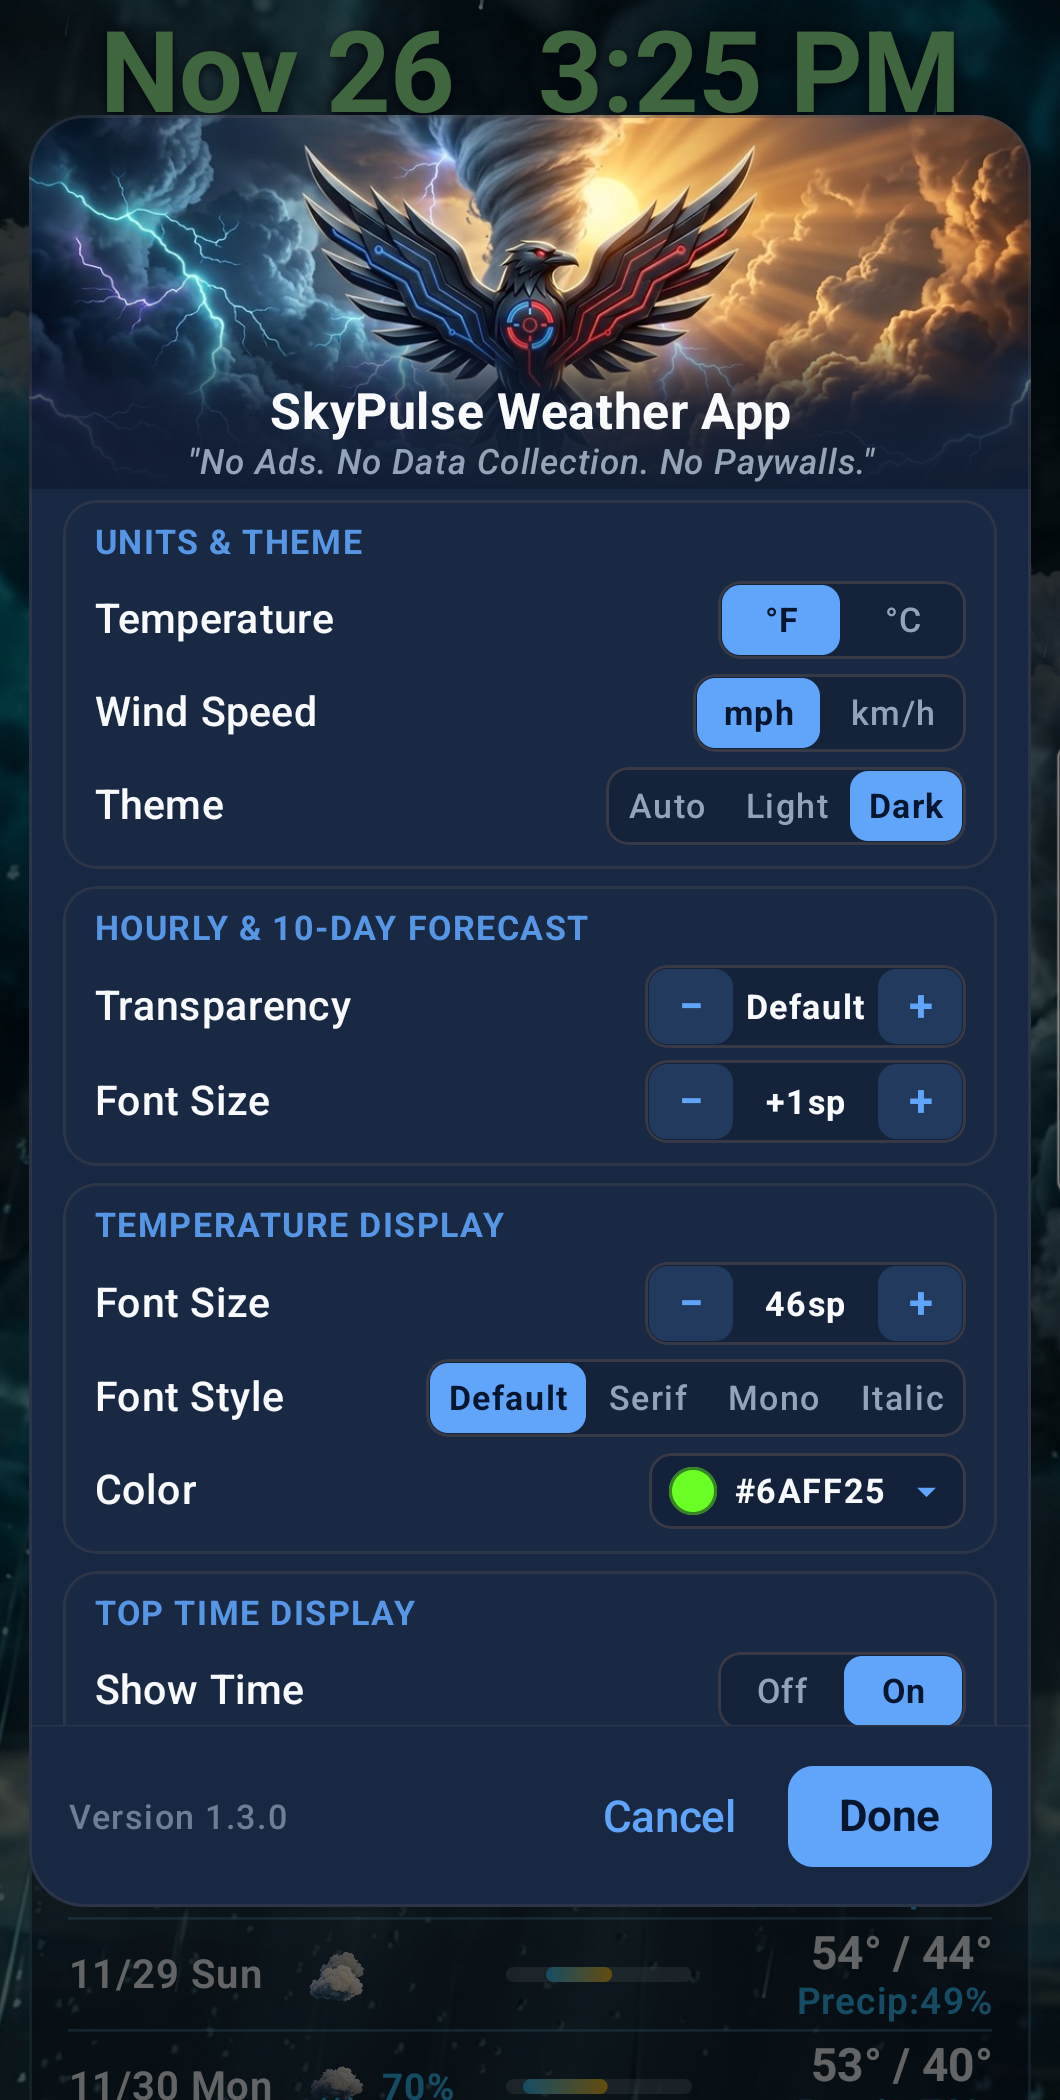
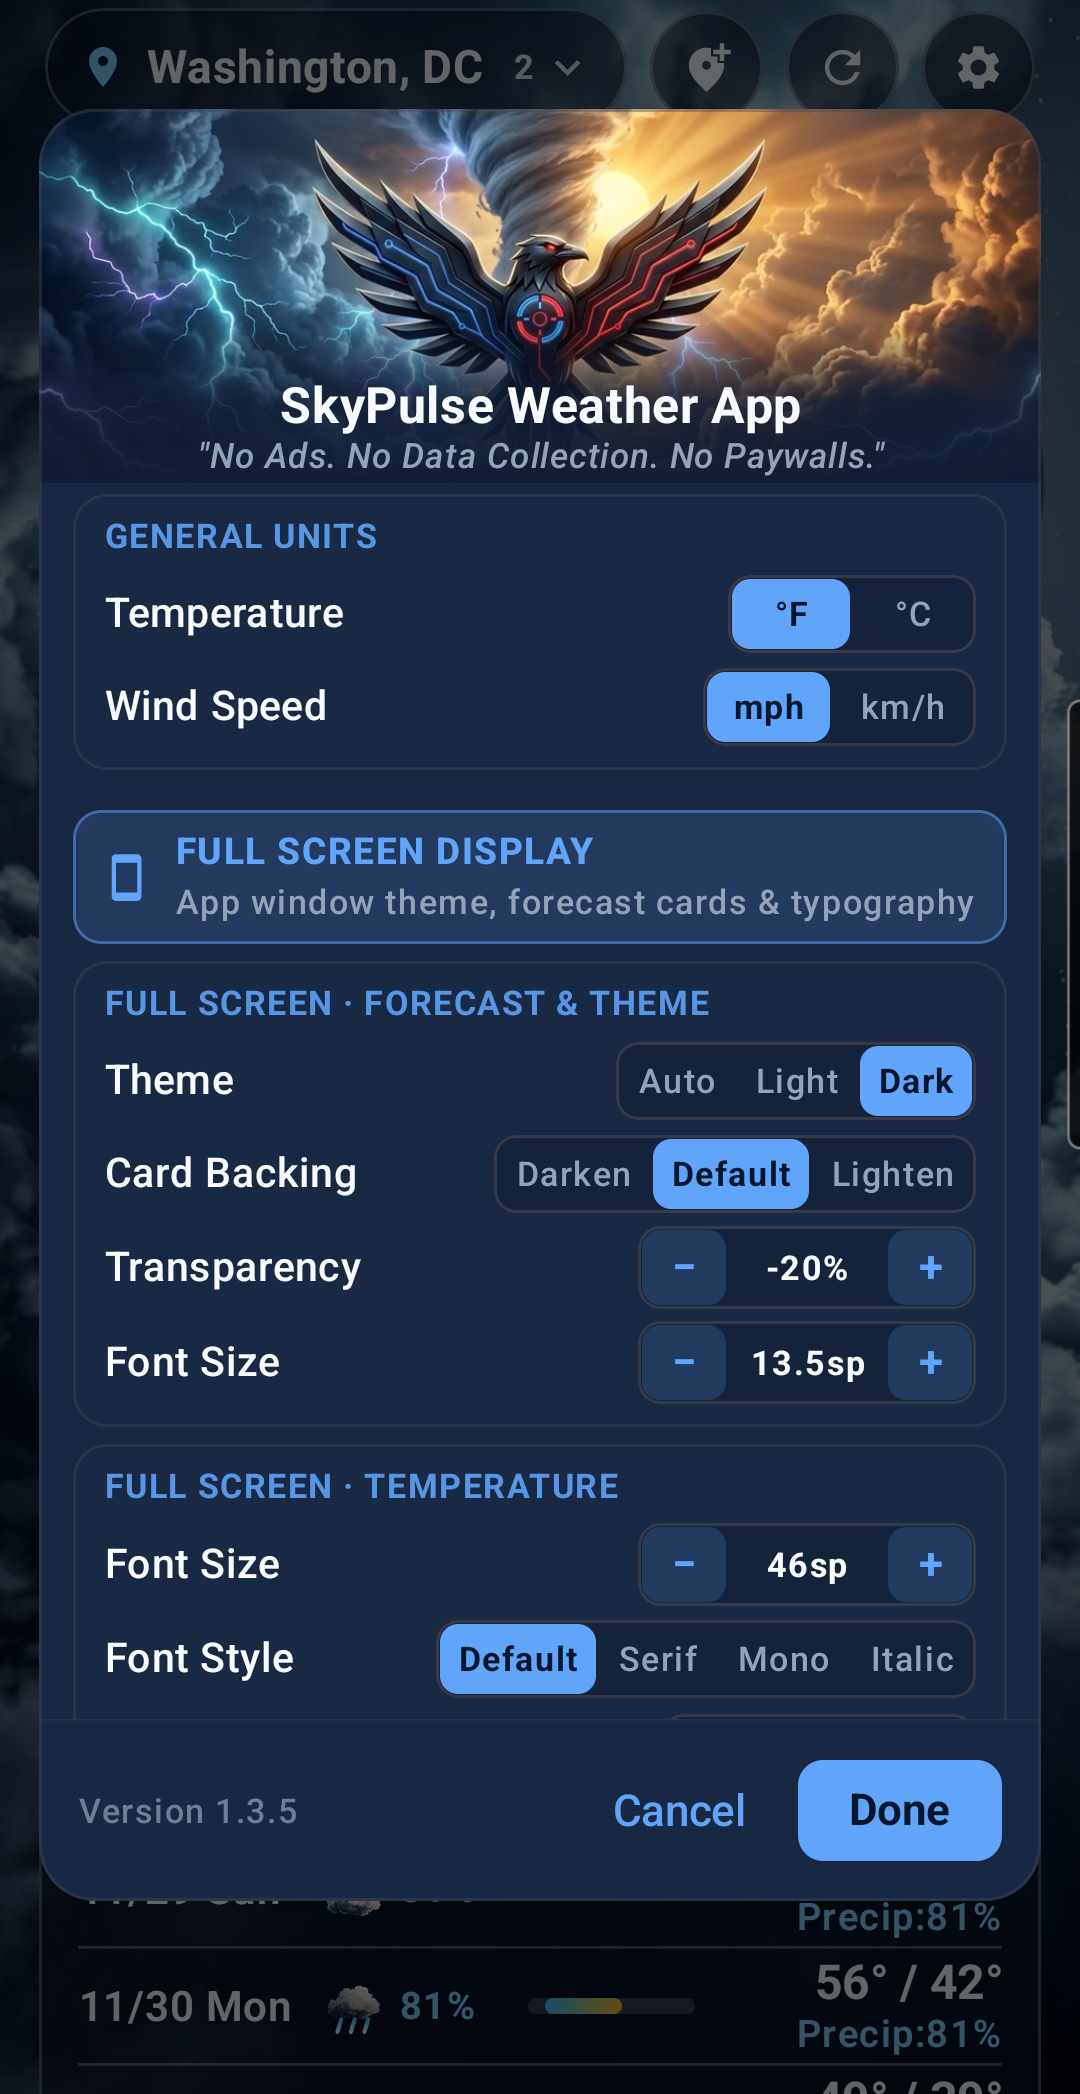
Docs & sanitization update for v1.3.5: refresh showcase images, guides, and neutral Washington DC seed defaults

diff --git a/app/src/main/java/com/crowinnovations/skypulseweather/data/repository/WeatherRepository.kt b/app/src/main/java/com/crowinnovations/skypulseweather/data/repository/WeatherRepository.kt
@@ -93,11 +93,11 @@ class WeatherRepository @Inject constructor(
             if (existing.isEmpty()) {
                 val id = weatherDao.insertLocation(
                     SavedLocationEntity(
-                        name = "Baltimore, MD",
-                        subtitle = "US ZIP 21201 · Maryland",
-                        latitude = 39.2946,
-                        longitude = -76.6252,
-                        zipCode = "21201",
+                        name = "Washington, DC",
+                        subtitle = "US ZIP 20001 · District of Columbia",
+                        latitude = 38.9072,
+                        longitude = -77.0369,
+                        zipCode = "20001",
                         countryCode = "US",
                         isGps = false,
                         sortOrder = 0
@@ -121,7 +121,7 @@ class WeatherRepository @Inject constructor(
             val results = mutableListOf<LocationSearchCandidate>()
             var lastError: Throwable? = null
 
-            // 1. Check if input is a 5-digit US ZIP code (e.g. 21201 or 90210-1234)
+            // 1. Check if input is a 5-digit US ZIP code (e.g. 20001 or 90210-1234)
             if (US_ZIP_REGEX.matches(query)) {
                 val zip5 = query.take(5)
                 runCatching {

diff --git a/app/src/test/java/com/crowinnovations/skypulseweather/WeatherDomainTest.kt b/app/src/test/java/com/crowinnovations/skypulseweather/WeatherDomainTest.kt
@@ -163,13 +163,13 @@ class WeatherDomainTest {
     @Test
     fun inputSecurityValidatorEnforcesStrictAllowlistAndSsrfProtection() {
         // Valid ZIPs and Unicode cities pass cleanly
-        assertEquals("21201", InputSecurityValidator.validateLocationSearchQuery("  21201\u200B "))
+        assertEquals("20001", InputSecurityValidator.validateLocationSearchQuery("  20001\u200B "))
         assertEquals("St. John's, NL", InputSecurityValidator.validateLocationSearchQuery("St. John's, NL"))
         assertEquals("München", InputSecurityValidator.validateLocationSearchQuery("München"))
 
         // Injection, HTML, path traversal, and control payloads rejected
         assertNull(InputSecurityValidator.validateLocationSearchQuery("<script>alert(1)</script>"))
-        assertNull(InputSecurityValidator.validateLocationSearchQuery("21201; DROP TABLE saved_locations;--"))
+        assertNull(InputSecurityValidator.validateLocationSearchQuery("20001; DROP TABLE saved_locations;--"))
         assertNull(InputSecurityValidator.validateLocationSearchQuery("../../etc/passwd"))
         assertNull(InputSecurityValidator.validateLocationSearchQuery("a"))
 

diff --git a/app/src/main/java/com/crowinnovations/skypulseweather/widget/WidgetConfigActivity.kt b/app/src/main/java/com/crowinnovations/skypulseweather/widget/WidgetConfigActivity.kt
@@ -189,7 +189,7 @@ class WidgetConfigActivity : ComponentActivity() {
                             shape = RoundedCornerShape(14.dp),
                             placeholder = {
                                 Text(
-                                    text = "Add ZIP code (e.g. 21201) or city…",
+                                    text = "Add ZIP code (e.g. 20001) or city…",
                                     maxLines = 1,
                                     softWrap = false,
                                     overflow = TextOverflow.Ellipsis

diff --git a/app/src/main/java/com/crowinnovations/skypulseweather/ui/WeatherViewModel.kt b/app/src/main/java/com/crowinnovations/skypulseweather/ui/WeatherViewModel.kt
@@ -181,7 +181,7 @@ class WeatherViewModel @Inject constructor(
                 it.copy(
                     isSearching = false,
                     searchResults = emptyList(),
-                    searchError = "Enter at least 2 valid letters or digits (e.g. 21201 or Baltimore)."
+                    searchError = "Enter at least 2 valid letters or digits (e.g. 20001 or Washington)."
                 )
             }
             return

diff --git a/app/src/main/java/com/crowinnovations/skypulseweather/ui/components/DialogsAndSheets.kt b/app/src/main/java/com/crowinnovations/skypulseweather/ui/components/DialogsAndSheets.kt
@@ -228,7 +228,7 @@ fun ManageLocationsSheet(
                 textStyle = MaterialTheme.typography.bodyMedium,
                 placeholder = {
                     SingleLineText(
-                        text = "Search US ZIP (21201) or city…",
+                        text = "Search US ZIP (20001) or city…",
                         style = MaterialTheme.typography.bodyMedium
                     )
                 },

diff --git a/play_store_assets/PLAY_STORE_SUBMISSION_GUIDE.md b/play_store_assets/PLAY_STORE_SUBMISSION_GUIDE.md
@@ -17,7 +17,7 @@
   FEATURES
   • Swipeable 10-Day Forecast & Home Widget: View 24-hour hourly strips and 10-day temperature & precipitation forecasts with M/d date labels and >50% rain callouts, and swipe smoothly right or left across all 10 days directly on your home-screen widget.
   • 6 Widget Size Options (5×3, 5×2, 4×2, 2×2, 2×1, 1×1): Pick from Mini (1×1), Compact Strip (2×1), Square (2×2), Classic 10-Day (4×2), Widescreen 10-Day (5×2), or Expanded 10-Day (5×3) widgets—each formatted cleanly for its size.
-  • Custom Temperature, Forecast & Top Clock Styling: Optional top centered clock and abbreviated month/day Date Display (Off, Left of Time, Right of Time, or Below Time), Hourly & 10-Day card transparency (+/-) and font boost (+1sp to +10sp), plus independent font size, font style (Default, Serif, Mono, Italic), and full-spectrum hexagonal color-wheel selection.
+  • Separated Full-Screen & Widget Display Styling (0.5sp Precision): Independently configure Full Screen Display and Widget Display sections—all font size controls use sp sizing with fine 0.5sp (− / +) decrease and increase increments across Temperature (20sp–74sp), Top Centered Clock & Date (10sp–74sp), Full-Screen Forecast Cards (7sp–22sp), Widget Details Below Temp (7sp–18sp with optional Darken/Default/Lighten + transparency background), and Widget 10-Day Forecast Slider (7sp–17sp with Darken/Default/Lighten + transparency backing), plus font style (Default, Serif, Mono, Italic) and full-spectrum hexagonal color-wheel selection.
   • Balanced 3D Skies & True Moon Phases: Glare-balanced golden sun with animated solar rays, drifting 3D clouds, continuous 3D falling rain on larger widgets and full screen, and centered 3D lunar phase rendering.
   • Fast 15-Minute Automatic Sync: Background updates every 15 minutes keep current temps, wind speed (mph or km/h), UV index, and active U.S. NOAA severe weather alerts up to date.
   • Multiple Locations (GPS, ZIP Code, or City): Track optional foreground GPS alongside saved U.S. 5-digit ZIP codes and global cities.
@@ -43,7 +43,7 @@
 - **Security Practices**:
   - Data is encrypted in transit (`TLS 1.2/1.3 HTTPS` enforced via `network_security_config.xml` and `usesCleartextTraffic="false"`): **Yes**.
 
-## 4. Technical Release Checklist (v1.3.2 — `versionCode 6`)
+## 4. Technical Release Checklist (v1.3.5 — `versionCode 9`)
 - **Signed Release App Bundle (`.aab`)**: `app/build/outputs/bundle/release/app-release.aab`
 - **Signed Release APK (`.apk`)**: `app/build/outputs/apk/release/app-release.apk`
 - **R8 Deobfuscation Mapping File**: `app/build/outputs/mapping/release/mapping.txt`

diff --git a/README.md b/README.md
@@ -33,9 +33,9 @@
 | :---: | :---: | :---: |
 | <img src="./docs/images/washington_dc_widget.png" alt="Washington DC 10-Day Swipeable Home Screen Widget" width="255" /> | <img src="./docs/images/washington_dc_widget_sizes.png" alt="Washington DC Compact and Square Widget Sizes" width="255" /> | <img src="./docs/images/washington_dc_fullscreen.png" alt="Washington DC Full Screen Forecast" width="255" /> |
 
-| Clean `v1.3.0` Settings & Color/Font Controls | Widescreen / Landscape View |
-| :---: | :---: |
-| <img src="./docs/images/washington_dc_settings.png" alt="SkyPulse Weather v1.3.0 Settings" width="260" /> | <img src="./docs/images/washington_dc_landscape.png" alt="Washington DC Landscape Forecast" width="460" /> |
+| `v1.3.5` Full-Screen Display Settings | `v1.3.5` Widget Display Settings | Widescreen / Landscape View |
+| :---: | :---: | :---: |
+| <img src="./docs/images/washington_dc_settings.png" alt="SkyPulse Weather v1.3.5 Full Screen Display Settings" width="245" /> | <img src="./docs/images/washington_dc_widget_settings.png" alt="SkyPulse Weather v1.3.5 Widget Display Settings" width="245" /> | <img src="./docs/images/washington_dc_landscape.png" alt="Washington DC Landscape Forecast" width="380" /> |
 
 ---
 
